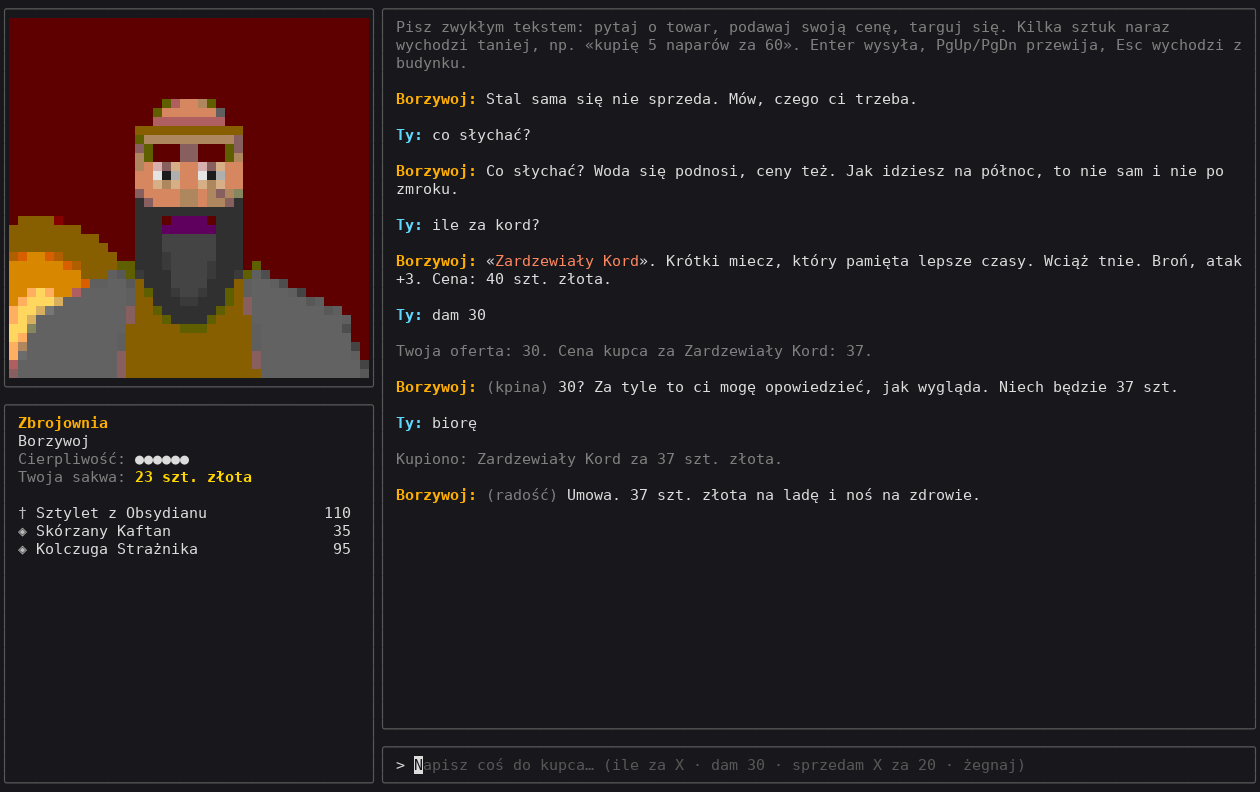
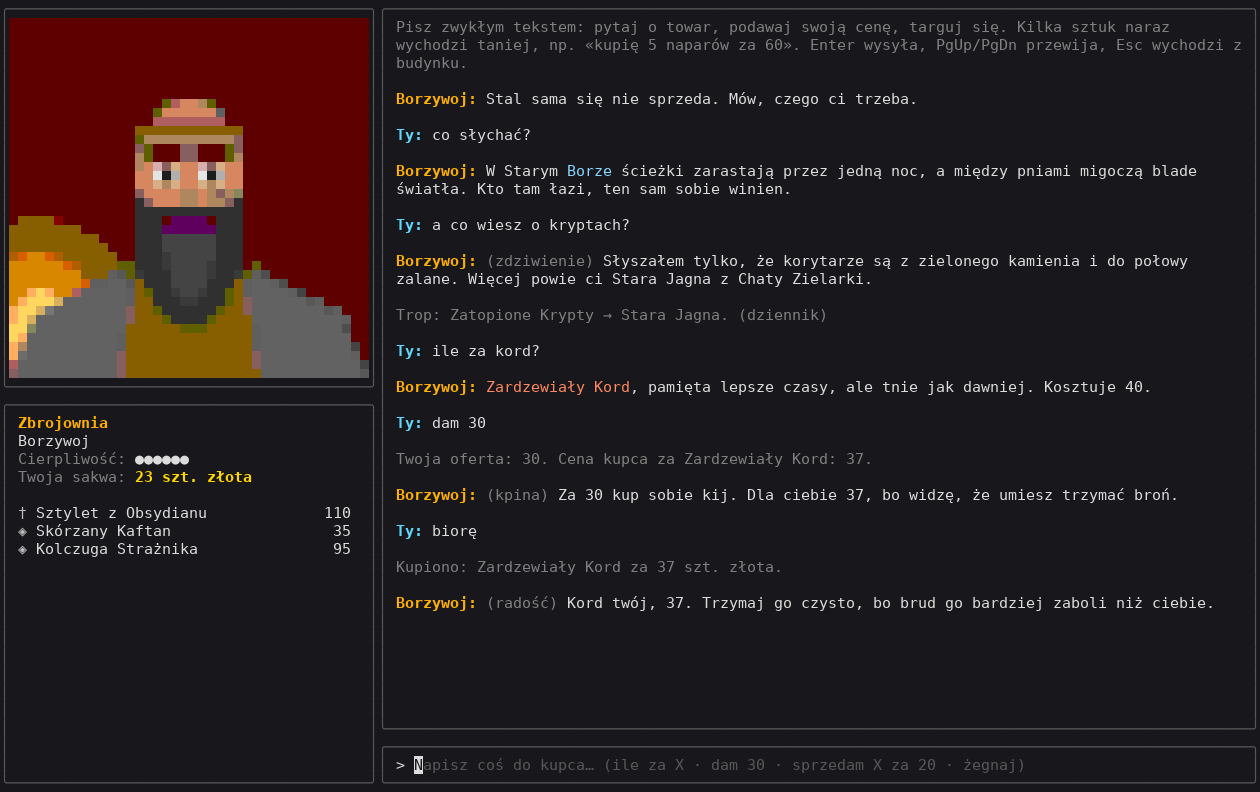
demo: tryb -live z prawdziwymi modelami; nowe zrzuty i GIF z podpisem runu
tools/demo -live bierze kwestie, rozumienie gracza i narrację Mistrza Gry
z modeli NEURO_*, a podpis karty mówi, który run wygenerował tekst
(przygoda: teksty z pliku świata; generowanie: zapisany projekt świata).
GIF i handel/walka z run23, rozmowa/mistrz-gry z run25 (kandydat
nieprzyjęty), wyspa z run21. README: podpisy z numerem runu.

Claude-Session: https://claude.ai/code/session_01JyghT5QxoJgA1q3ZNjNatg

diff --git a/tools/demo/main.go b/tools/demo/main.go
@@ -8,6 +8,12 @@
 //
 // The "generated" world of the last part comes from tools/demo/world.json,
 // so the demo does not depend on a language model.
+//
+// With -live the lines, the reading of the player and the game master's
+// narration of every combat round come from the models the NEURO_*
+// variables name, as in the game (the world itself stays the embedded one):
+//
+//	go run ./tools/demo -live -label run23 -out /tmp/demo-run23
 package main
 
 import (
@@ -20,6 +26,7 @@ import (
 	"os/exec"
 	"path/filepath"
 	"strings"
+	"sync"
 	"time"
 
 	tea "github.com/charmbracelet/bubbletea"
@@ -27,11 +34,131 @@ import (
 	"github.com/muesli/termenv"
 
 	"github.com/sebastianrozmus/neuro-processor/internal/avatars"
+	"github.com/sebastianrozmus/neuro-processor/internal/config"
 	"github.com/sebastianrozmus/neuro-processor/internal/game"
 	"github.com/sebastianrozmus/neuro-processor/internal/inspect"
+	"github.com/sebastianrozmus/neuro-processor/internal/llm"
 	"github.com/sebastianrozmus/neuro-processor/internal/ui"
 	"github.com/sebastianrozmus/neuro-processor/internal/world"
 )
+
+// live counts the model calls in flight, so that a frame is taken only once
+// the game master has told the round; nil when the demo runs without a model.
+var live *counted
+
+// counted passes every call to a real brain and counts those in flight.
+type counted struct {
+	brain game.Brain
+	mu    sync.Mutex
+	busy  int
+}
+
+func (c *counted) track(delta int) {
+	c.mu.Lock()
+	c.busy += delta
+	c.mu.Unlock()
+}
+
+func (c *counted) idle() bool {
+	c.mu.Lock()
+	defer c.mu.Unlock()
+
+	return c.busy == 0
+}
+
+func (c *counted) Interpret(ctx context.Context, request game.InterpretRequest) (game.Intent, error) {
+	c.track(1)
+	defer c.track(-1)
+
+	return c.brain.Interpret(ctx, request)
+}
+
+func (c *counted) Narrate(ctx context.Context, request game.NarrateRequest) (string, error) {
+	c.track(1)
+	defer c.track(-1)
+
+	return c.brain.Narrate(ctx, request)
+}
+
+// liveBrain builds the models of the game from the NEURO_* variables, as
+// cmd/neuro does: the Mind reads the player, the Voice speaks, the Master
+// narrates fights.
+func liveBrain() (*counted, game.Narrator) {
+	cfg := config.Load()
+	if cfg.Offline() {
+		panic("-live needs NEURO_LLM_BASE_URL and NEURO_LLM_MODEL")
+	}
+
+	role := func(role, base, key, model string, window int) *llm.Client {
+		return &llm.Client{BaseURL: base, APIKey: key, Model: model, MaxTokens: cfg.MaxTokens, Context: window, Role: role}
+	}
+
+	talk, window := cfg.Model, cfg.Context
+	if cfg.TalkModel != "" {
+		talk, window = cfg.TalkModel, cfg.TalkContext
+	}
+
+	master := talk
+	if cfg.MasterModel != "" {
+		master = cfg.MasterModel
+	}
+
+	split := llm.Split{
+		Mind:   role(llm.RoleMind, cfg.BaseURL, cfg.APIKey, cfg.Model, cfg.Context),
+		Voice:  role(llm.RoleTalk, cfg.TalkBaseURL, cfg.TalkAPIKey, talk, window),
+		Master: role(llm.RoleFight, cfg.TalkBaseURL, cfg.TalkAPIKey, master, window),
+	}
+	brain := &counted{brain: split}
+
+	return brain, &countedNarrator{brain, split.Narrator()}
+}
+
+// countedNarrator is the game master, counted with the rest.
+type countedNarrator struct {
+	counter *counted
+	master  game.Narrator
+}
+
+func (n *countedNarrator) Narrate(ctx context.Context, request game.NarrateRequest) (string, error) {
+	n.counter.track(1)
+	defer n.counter.track(-1)
+
+	return n.master.Narrate(ctx, request)
+}
+
+// settle waits until the models have answered (the game master tells a
+// round in the background) and lets the screen show what they said.
+func settle(model tea.Model) tea.Model {
+	if live == nil {
+		return model
+	}
+
+	time.Sleep(200 * time.Millisecond) // the narration starts in a goroutine of its own
+
+	for deadline := time.Now().Add(3 * time.Minute); !live.idle() && time.Now().Before(deadline); {
+		time.Sleep(100 * time.Millisecond)
+	}
+
+	time.Sleep(200 * time.Millisecond)
+
+	// The game's own listener (the first command of Init) turns the pending
+	// change of the world into a refresh.
+	batch, ok := model.Init()().(tea.BatchMsg)
+	if !ok || len(batch) == 0 {
+		return model
+	}
+
+	changed := make(chan tea.Msg, 1)
+	go func() { changed <- batch[0]() }()
+
+	select {
+	case msg := <-changed:
+		model, _ = model.Update(msg)
+	case <-time.After(2 * time.Second):
+	}
+
+	return model
+}
 
 //go:embed world.json
 var generatedWorld []byte
@@ -96,10 +223,16 @@ func (r *recorder) play(model tea.Model, hold float64) {
 	}
 }
 
+// credit names, under every title, the model that wrote the lines.
+var credit string
+
 // card draws a title screen.
 func (r *recorder) card(title, subtitle string, seconds float64) {
 	block := lipgloss.NewStyle().Foreground(lipgloss.Color("214")).Bold(true).Render(title) + "\n\n" +
-		lipgloss.NewStyle().Foreground(lipgloss.Color("250")).Render(subtitle)
+		lipgloss.NewStyle().Foreground(lipgloss.Color("250")).Width(100).Align(lipgloss.Center).Render(subtitle)
+	if credit != "" {
+		block += "\n\n" + lipgloss.NewStyle().Foreground(lipgloss.Color("109")).Render(credit)
+	}
 	r.frame(lipgloss.Place(columns, rows, lipgloss.Center, lipgloss.Center, block), seconds)
 }
 
@@ -139,6 +272,7 @@ func (demoBrain) Narrate(_ context.Context, request game.NarrateRequest) (string
 // launcher starts games the demo's menu picks.
 type launcher struct {
 	brain   game.Brain
+	master  game.Narrator
 	library *avatars.Library
 	last    *game.Realm
 }
@@ -150,6 +284,10 @@ func (l *launcher) New(spec world.Spec) (tea.Model, tea.Cmd, error) {
 	}
 
 	realm := game.NewRealm(built, 7)
+	if l.master != nil {
+		realm.SetMaster(l.master, nil)
+	}
+
 	l.last = realm
 	name := realm.Join("Seba", "wojownik")
 
@@ -177,6 +315,8 @@ func (generator) GenerateWorld(_ context.Context, mode world.Mode, theme string)
 func main() {
 	out := flag.String("out", "demo-frames", "folder for the frames")
 	only := flag.String("only", "", "record one part alone: imagination, tabletop, adventure, generated or inspector")
+	useModels := flag.Bool("live", false, "lines and the game master's narration from the NEURO_* models")
+	label := flag.String("label", "", "with -live: the model's name shown on the title cards, e.g. run23")
 	flag.Parse()
 
 	// Without a terminal lipgloss drops every colour (HP bars, selections, foes came out white);
@@ -202,6 +342,17 @@ func main() {
 	rec := &recorder{dir: *out}
 	library := avatars.Open("")
 	launch := &launcher{brain: demoBrain{}, library: library}
+
+	if *useModels {
+		var master game.Narrator
+
+		live, master = liveBrain()
+		launch.brain, launch.master = live, master
+
+		if *label != "" {
+			credit = "Kwestie, rozumienie gracza i narracja Mistrza Gry: model " + *label + "."
+		}
+	}
 
 	parts := map[string]func(){
 		"imagination": func() { imagination(rec, launch, byMode[world.ModeImagination]) },
@@ -268,6 +419,7 @@ func typed(rec *recorder, model tea.Model, text string, hold float64) tea.Model 
 		model, cmd = model.Update(cmd())
 	}
 
+	model = settle(model)
 	rec.play(model, hold)
 
 	return model
@@ -330,6 +482,12 @@ func imagination(rec *recorder, launch *launcher, spec world.Spec) {
 
 	model = typed(rec, model, "idź do zbrojowni", 2)
 	model = typed(rec, model, "co słychać?", 2.8)
+
+	if live != nil {
+		// A real keeper has more to say than the canned lines.
+		model = typed(rec, model, "a co wiesz o kryptach?", 3.2)
+	}
+
 	model = typed(rec, model, "ile za kord?", 2.6)
 	model = typed(rec, model, "dam 30", 2.6)
 	model = typed(rec, model, "biorę", 2.6)
@@ -363,6 +521,17 @@ func tabletop(rec *recorder, launch *launcher, spec world.Spec) {
 	model = typed(rec, model, "najmij "+firstName(spec.Companions[0].Name), 1.6)
 	// Companions now wait for the player's orders in a fight; the demo lets them act alone.
 	model = typed(rec, model, "autowalka", 1.2)
+
+	if live != nil {
+		// A word with the new companion: who they are, in their own voice.
+		mate := firstName(spec.Companions[0].Name)
+		model = typed(rec, model, "rozmawiaj z "+mate, 1.6)
+		model = typed(rec, model, "skąd jesteś?", 3.2)
+		model = typed(rec, model, "masz kogoś bliskiego?", 3.2)
+		model = typed(rec, model, "dobra, ruszamy na szczury", 3)
+		model = press(model, tea.KeyEsc)
+		rec.shot(model, 1)
+	}
 	model = walkToFight(rec, model, realm, name)
 	rec.shot(model, 2.4)
 
@@ -403,6 +572,11 @@ func tabletop(rec *recorder, launch *launcher, spec world.Spec) {
 }
 
 func adventure(rec *recorder, launch *launcher, spec world.Spec) {
+	// The rooms, things and people of an adventure speak from the world file, never from a model.
+	defer func(kept string) { credit = kept }(credit)
+	if credit != "" {
+		credit = "Opisy i odpowiedzi ludzi pochodzą z pliku świata, bez modelu."
+	}
 	rec.card("3. Przygodowa", spec.Name+": pomieszczenia, rzeczy, zagadki i ludzie, jak w Mózgoprocesorze.", 3)
 
 	model, _, _ := launch.New(spec)
@@ -419,6 +593,11 @@ func adventure(rec *recorder, launch *launcher, spec world.Spec) {
 }
 
 func generated(rec *recorder, launch *launcher, presets []world.Spec) {
+	// The world itself is a design saved earlier (a model takes minutes over one); only the lines are live.
+	defer func(kept string) { credit = kept }(credit)
+	if credit != "" {
+		credit = "Projekt świata zapisany wcześniej, kwestie i narracja Mistrza Gry: " + strings.TrimPrefix(credit, "Kwestie, rozumienie gracza i narracja Mistrza Gry: ")
+	}
 	rec.card("4. Generowanie świata", "Opisujesz temat, a model projektuje świat; mapę, zasady i ceny wylicza gra.", 3)
 
 	menu := size(ui.NewMenu(nil, presets, nil, generator{}, os.TempDir(), "demo", launch))

diff --git a/README.md b/README.md
@@ -32,8 +32,12 @@ Highlights
 
 | | |
 |---|---|
-| ![Haggling with an armourer](./images/handel.png) | ![D&D fight with a companion](./images/walka.png) |
-| ![Adventure mode](./images/przygoda.png) | ![Browser inspector](./images/podglad.png) |
+| ![Haggling with an armourer](./images/handel.png)<br>Haggling with an armourer (model run23) | ![D&D fight with a companion](./images/walka.png)<br>D&D fight with game-master commentary (run23) |
+| ![Talking to Borin](./images/rozmowa.png)<br>Talking to Borin (run25, candidate not adopted) | ![Game master narrating a rat fight](./images/mistrz-gry.png)<br>Game master narrating a fight (run25, candidate not adopted) |
+| ![Generated world, a crab on an island](./images/wyspa.png)<br>Generated world (run21) | ![Adventure mode](./images/przygoda.png)<br>Adventure mode (texts from the world file) |
+| ![Browser inspector](./images/podglad.png)<br>Browser inspector | |
+
+The animation at the top and the screenshots come from real models (`go run ./tools/demo -live`). Each caption names the run that wrote the text.
 
 Game modes
 ----------

diff --git a/README.pl.md b/README.pl.md
@@ -31,8 +31,12 @@ Co tu jest
 
 | | |
 |---|---|
-| ![Targ w zbrojowni](./images/handel.png) | ![Walka D&D z towarzyszem](./images/walka.png) |
-| ![Tryb przygodowy](./images/przygoda.png) | ![Podgląd w przeglądarce](./images/podglad.png) |
+| ![Targ w zbrojowni](./images/handel.png)<br>Targ w zbrojowni (model run23) | ![Walka D&D z towarzyszem](./images/walka.png)<br>Walka D&D z komentarzem Mistrza Gry (run23) |
+| ![Rozmowa z Borinem](./images/rozmowa.png)<br>Rozmowa z Borinem (run25, kandydat nieprzyjęty) | ![Mistrz Gry opisuje walkę ze szczurem](./images/mistrz-gry.png)<br>Mistrz Gry opisuje walkę (run25, kandydat nieprzyjęty) |
+| ![Wygenerowany świat, krab na wyspie](./images/wyspa.png)<br>Wygenerowany świat (run21) | ![Tryb przygodowy](./images/przygoda.png)<br>Tryb przygodowy (teksty z pliku świata) |
+| ![Podgląd w przeglądarce](./images/podglad.png)<br>Podgląd w przeglądarce | |
+
+Animacja na górze i zrzuty pochodzą z prawdziwych modeli (`go run ./tools/demo -live`). Pod każdym obrazkiem podano run, który wygenerował tekst.
 
 Rodzaje gry
 -----------
